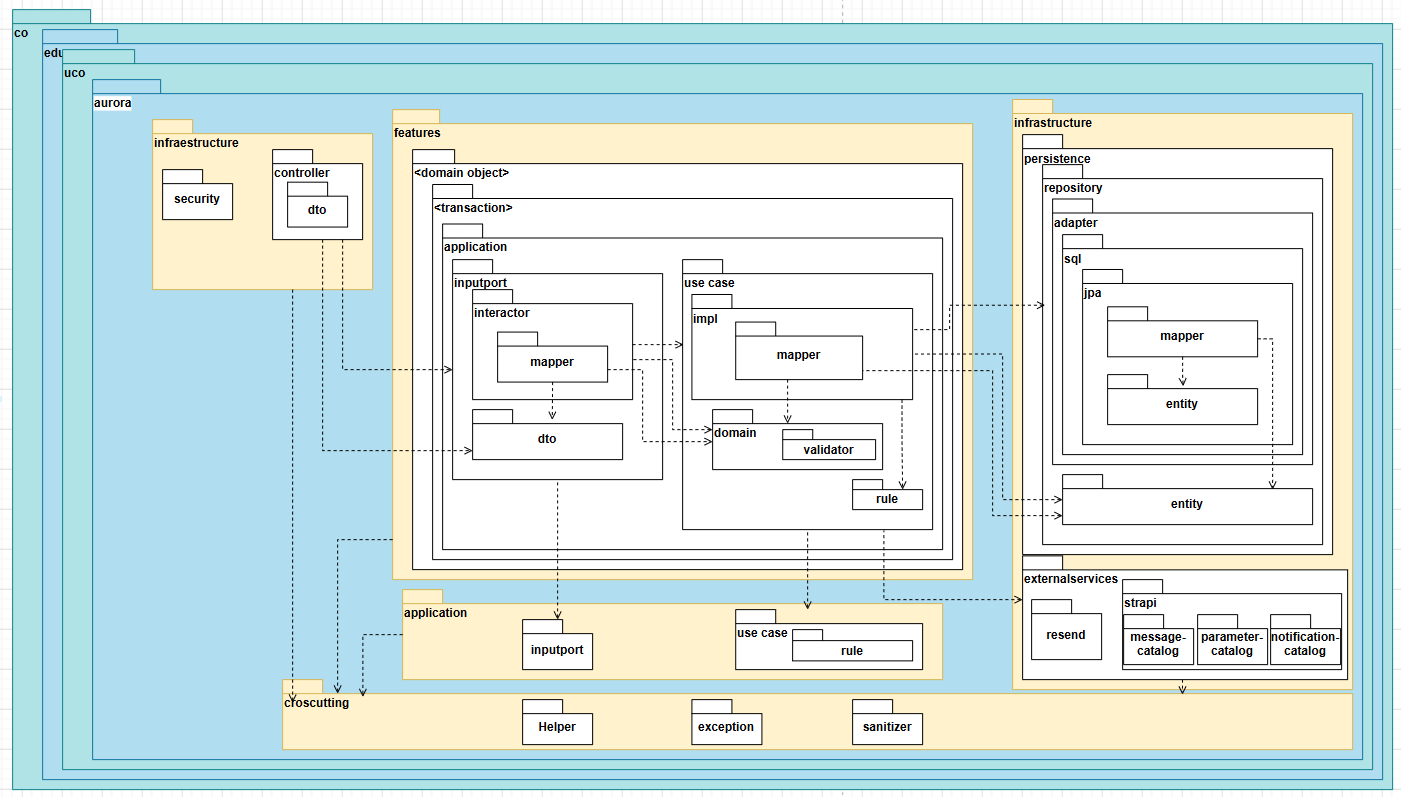
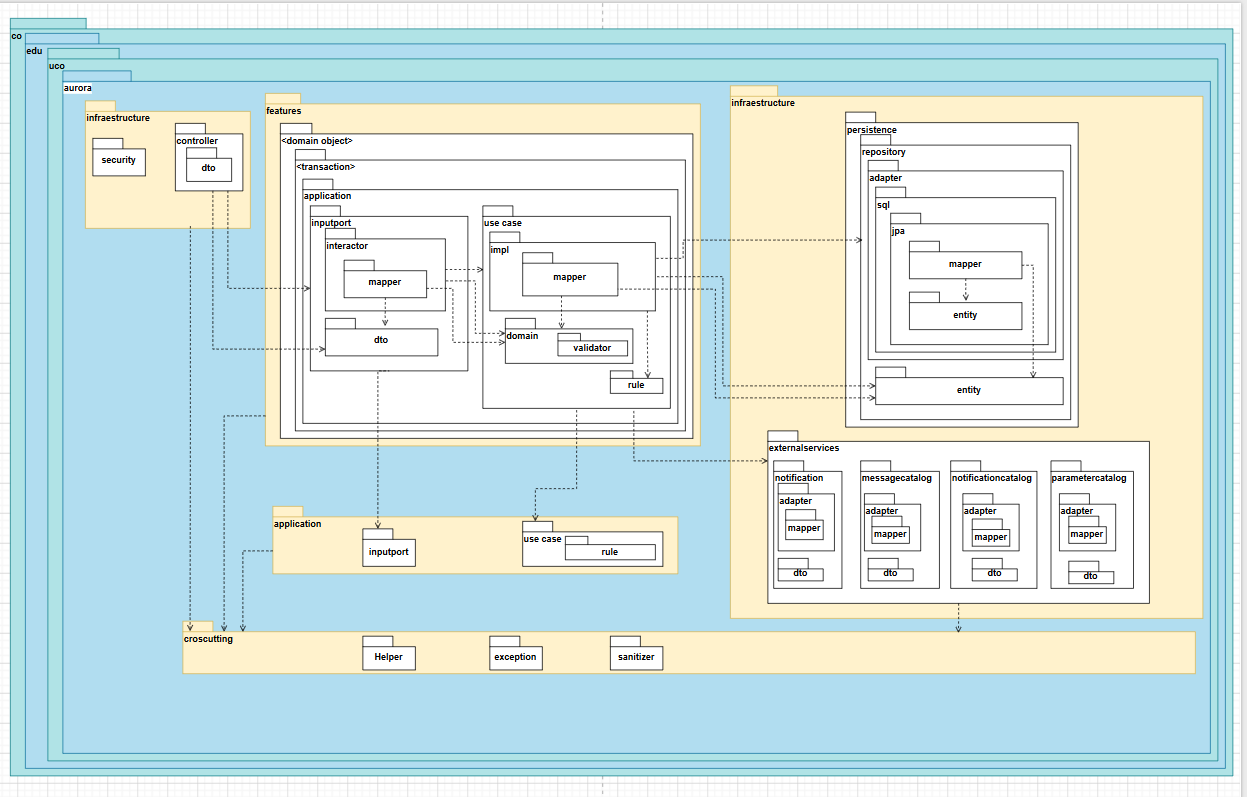
Ajustes

diff --git a/Documentacion-Aurora.md b/Documentacion-Aurora.md
@@ -111,7 +111,7 @@ Este diagrama tambien corresponde al Arquetipo de Referencia de la aplicación.
 
 ![Plataformas Tecnologicas - Arquitectura de Referencia](ArquitecturaDeReferencia.png)
 
-Este diagrama tambien corresponde ala Arquitectura de Referencia de la aplicación.
+Este diagrama tambien corresponde a la Arquitectura de Referencia de la aplicación.
 
 ---
 
@@ -173,7 +173,7 @@ El diagrama de componentes representa la estructura lógica con la que esta cons
 
 # Documentación del Diagrama de Paquetes - Backend Aurora
 
-El diagrama de paquetes describe la organización interna del Backend de Aurora. La arquitectura propende por hacer uso de la arquitectura **Clean Architecture**, por lo que en lugar de agrupar todo el código únicamente por capas técnicas, el sistema se organiza alrededor de funcionalidades específicas del negocio (`features`), encapsulando dentro de cada transacción sus propias capas de aplicación, dominio y mapeo. Las dependencias fluyen siempre desde los detalles técnicos (infraestructura) hacia las reglas del negocio (dominio), protegiendo el núcleo de la ferretería de cambios en tecnologías externas o bases de datos.
+El diagrama de paquetes describe la organización interna del Backend de Aurora, propendiendo por hacer uso de la arquitectura **Clean Architecture**
 
 ### Diccionario de Paquetes
 
@@ -234,7 +234,7 @@ El diagrama de paquetes describe la organización interna del Backend de Aurora.
 
 # Documentación del Diagrama de Paquetes - Frontend Aurora
 
-El diagrama de paquetes describe la organización interna de la aplicación Frontend de Aurora. La arquitectura sigue un enfoque modular basado en componentes, separando claramente las responsabilidades de la interfaz de usuario, la navegación, el manejo de idiomas y la comunicación con el Backend. Las dependencias fluyen desde el enrutador hacia las vistas, y de las vistas hacia componentes más pequeños y servicios compartidos, garantizando una alta cohesión y bajo acoplamiento.
+El diagrama de paquetes describe la organización interna de la aplicación Frontend de Aurora, mostrando un enfoque separando las responsabilidades y la comunicación con el Backend.
 
 ### Diccionario de Paquetes
 
@@ -254,6 +254,8 @@ El diagrama de paquetes describe la organización interna de la aplicación Fron
 ![Diagrama de Paquetes — Frontend](DiagramaPaquetesFrontend.png)
 
 ## **4. Diagrama de Secuencia**
+
+El siguiente diagrama de secuencia muestra la interacción general de la arquitectura por capas anterio, con el fin de generar un entendimiento del flujo que se sigue por cada transacción que puede involucrar o no retorno de datos.
 
 *(Espacio reservado para el diagrama de secuencia. Se agregará una vez esté definido el flujo de interacción entre los componentes).*
 
